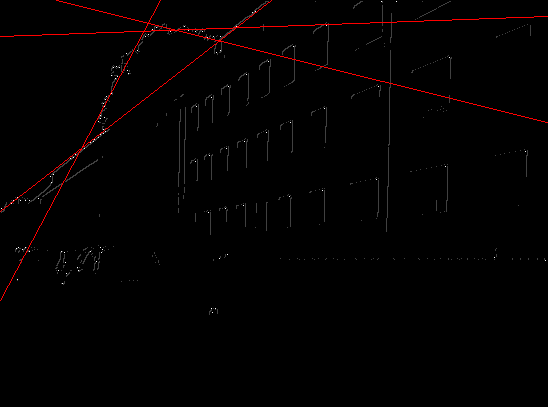
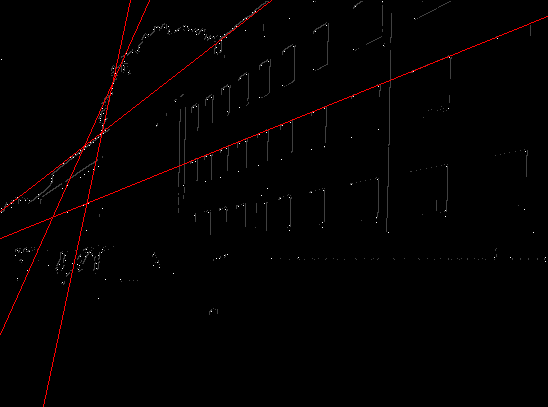
Code run test successfully Hw2 Code done + Refactoring

diff --git a/HW2S/code/HW2Code_Kunal.py b/HW2S/code/HW2Code_Kunal.py
@@ -4,6 +4,70 @@ import itertools
 import math
 import cv2
 
+
+def apply_filter(filter, arr):
+    try:
+        """
+        This method convolves an image with a given kernel.
+        Parameters
+        ----------
+        filter:array, Required
+    
+        arr: array, Required
+    
+        return tuple 
+        """
+    
+        canvas = updated_arr(arr)
+        img = updated_arr(arr)
+        for i in range(1, len(arr) - 1):
+            for j in range(1, len(arr[i]) - 1):
+                pos = 0
+                for rows in range(len(filter)):
+                    for columns in range(len(filter[rows])):
+                        x = rows - (len(filter) // 2)
+                        y = columns - (len(filter[rows]) // 2)
+                        pos += filter[rows][columns] * arr[i + x][j + y]
+                canvas[i][j] = pos
+    
+                img[i][j] = 0 if pos < 0 else  255 if pos > 255 else  pos
+        return (canvas, img)
+    except:
+        print("error in Apply_filter fn")
+
+
+def overlay_image(item1, item2, bg = False):
+    try:
+        """
+        This method used to overlays images based on gradient value.
+        Parameters
+        ----------
+        item1:array , Required
+    
+        item2:array, Required
+    
+        bg:boolean, Optional
+    
+        return tuple of item1 and image
+        """
+        img = item1.copy()
+        for i in range(len(item1)):
+            for j in range(len(item1[i])):
+                if not bg:
+                    val = math.sqrt(item1[i][j] ** 2 + item2[i][j] ** 2)
+                    item1[i][j] = val
+                    img[i][j] = 0 if val < 0 else 255 if val > 255 else  val
+                else:
+                    if item2[i][j] > item1[i][j]:
+                        item1[i][j] = item2[i][j]
+                    
+                    img[i][j] = 0 if item1[i][j] < 0 else 255 if item1[i][j] > 255 else item1[i][j]
+        return (item1, img)
+    except:
+        print("Error in overlay_image function")
+
+
+
 def non_max_supresn(arr, horizontal, vertical, mode):
     try:
         """
@@ -89,36 +153,6 @@ def threshold(canvas,min_value,max_value):
     except:
         print("Error in threshold function")
 
-def overlay_image(item1, item2, bg = False):
-    try:
-        """
-        This method used to overlays images based on gradient value.
-        Parameters
-        ----------
-        item1:array , Required
-    
-        item2:array, Required
-    
-        bg:boolean, Optional
-    
-        return tuple of item1 and image
-        """
-        img = item1.copy()
-        for i in range(len(item1)):
-            for j in range(len(item1[i])):
-                if not bg:
-                    val = math.sqrt(item1[i][j] ** 2 + item2[i][j] ** 2)
-                    item1[i][j] = val
-                    img[i][j] = 0 if val < 0 else 255 if val > 255 else  val
-                else:
-                    if item2[i][j] > item1[i][j]:
-                        item1[i][j] = item2[i][j]
-                    
-                    img[i][j] = 0 if item1[i][j] < 0 else 255 if item1[i][j] > 255 else item1[i][j]
-        return (item1, img)
-    except:
-        print("Error in overlay_image function")
-
 
 def hes_matrix(xxcord, yycord, xycord, yxcord, threshold):
     try:
@@ -176,35 +210,6 @@ def updated_arr(img):
     except:
         print("Error updated_arr in Function")
 
-def apply_filter(filter, arr):
-    try:
-        """
-        This method convolves an image with a given kernel.
-        Parameters
-        ----------
-        filter:array, Required
-    
-        arr: array, Required
-    
-        return tuple 
-        """
-    
-        canvas = updated_arr(arr)
-        img = updated_arr(arr)
-        for i in range(1, len(arr) - 1):
-            for j in range(1, len(arr[i]) - 1):
-                pos = 0
-                for rows in range(len(filter)):
-                    for columns in range(len(filter[rows])):
-                        x = rows - (len(filter) // 2)
-                        y = columns - (len(filter[rows]) // 2)
-                        pos += filter[rows][columns] * arr[i + x][j + y]
-                canvas[i][j] = pos
-    
-                img[i][j] = 0 if pos < 0 else  255 if pos > 255 else  pos
-        return (canvas, img)
-    except:
-        print("error in Apply_filter fn")
 
 def corners_to_list(corners):
     try:
@@ -410,56 +415,82 @@ def apply_hough(img, corners, angle = 180, radius = None, features = 4):
 
 if __name__ == "__main__":
 
-    gaussian = [[0.077847, 0.123317, 0.077847], 
-                [0.123317, 0.195346, 0.123317], 
-                [0.077847, 0.123317, 0.077847]]
-    horizontal_sobel = [[1, 2, 1], 
-               [0, 0, 0], 
-               [-1, -2, -1]]
-    vertical_sobel = [[1, 0, -1], 
-               [2, 0, -2], 
-               [1, 0, -1]]
+    try:
+        """Filtering variable and corrosponding values.
+        g: gaussian
+        h_sobel: Horizontal Sobel Filter values
+        v_sobel: Verticle Sobel Filter values
+        """
+        g = [[0.077847, 0.123317, 0.077847], 
+                    [0.123317, 0.195346, 0.123317], 
+                    [0.077847, 0.123317, 0.077847]]
+        h_sobel = [[1, 2, 1], 
+                [0, 0, 0], 
+                [-1, -2, -1]]
+        v_sobel = [[1, 0, -1], 
+                [2, 0, -2], 
+                [1, 0, -1]]
+        
+        img = cv2.imread("road.png", 0)
+        arr = updated_arr(img)
     
-    img = cv2.imread("road.png", 0)
-    arr = updated_arr(img)
+        gfilImg = apply_filter(g, arr)
+        h = apply_filter(h_sobel, gfilImg[0])  
+        v = apply_filter(v_sobel, gfilImg[0])
 
-    blurred = apply_filter(gaussian, arr)
-    cv2.imwrite("gaussian_filter_image.png", blurred[1])
-
-    h = apply_filter(horizontal_sobel, blurred[0])
-    cv2.imwrite("sobel_filter_horizontal.png", h[1])
-    v = apply_filter(vertical_sobel, blurred[0])
-    cv2.imwrite("sobel_filter_vertical.png", v[1])
-
-    edges = overlay_image(h[0], v[0])
-    cv2.imwrite("edges_with_no_supression.png", edges[1])
-    suppressed_edges = non_max_supresn(edges[0], h[0], v[0], "edges")
-    cv2.imwrite("edges_with_supression.png", suppressed_edges[1])
-    threshold_edges = threshold(suppressed_edges[0], 175, 60)
-    cv2.imwrite("edges_threshold.png", threshold_edges)
-
-    xxcord = apply_filter(horizontal_sobel, h[0])
-    yycord = apply_filter(vertical_sobel, v[0])
-    xycord = apply_filter(vertical_sobel, h[0])
-    yxcord = apply_filter(horizontal_sobel, v[0])
-
-
-    cv2.imwrite("xxcord.png", xxcord[1])
-    cv2.imwrite("yycord.png", yycord[1])
-    cv2.imwrite("xycord.png", xycord[1])
-    cv2.imwrite("yxcord.png", yxcord[1])
-    
-    hess = hes_matrix(xxcord[0], yycord[0], xycord[0], yxcord[0], 175000)
-    hess_threshold = non_max_supresn(hess[0], h[0], v[0], "corners")
-    cv2.imwrite("corners.png", hess[1])
-    cv2.imwrite("corners_threshold.png", hess_threshold[1])
-    updated_hess = overlay_image(hess_threshold[0], threshold_edges / 4, bg=True) 
-    cv2.imwrite("updated_corners.png", updated_hess[1])
-    colored = (updated_hess[1]).copy()
-    colored = cv2.cvtColor(updated_hess[1], cv2.COLOR_GRAY2RGB)
-    ransac_image = colored.copy()
-    ransac_image = apply_ransac(ransac_image, corners_to_list(hess_threshold[1]), it = 25)
-    cv2.imwrite("ransac.png", ransac_image)
-    HOUGH = colored.copy()
-    HOUGH = apply_hough(HOUGH, corners_to_list(hess_threshold[1]), angle=45)
-    cv2.imwrite("hough_image.png", HOUGH)
+        
+        """Apply flter for Horizontal and Vertical sobel
+        cord1_xx: for XX cordinates
+        cord1_yy: for YY cordinates
+        cord1_xy: for XY cordinates
+        cord1_yx: for YX cordinates
+        """
+        cord1_xx = apply_filter(h_sobel, h[0])
+        cord1_yy = apply_filter(v_sobel, v[0])
+        cord1_xy = apply_filter(v_sobel, h[0])
+        cord1_yx = apply_filter(h_sobel, v[0])
+        
+        edges = overlay_image(h[0], v[0])
+        suppress_edges = non_max_supresn(edges[0], h[0], v[0], "edges")
+        threshold_edges = threshold(suppress_edges[0], 175, 60)
+   
+        hess_matrix = hes_matrix(cord1_xx[0], cord1_yy[0], cord1_xy[0], cord1_yx[0], 175000)
+        hess_threshold = non_max_supresn(hess_matrix[0], h[0], v[0], "corners")
+        updated_hess_matrix = overlay_image(hess_threshold[0], threshold_edges / 4, bg=True) 
+        
+        colored = (updated_hess_matrix[1]).copy()
+        colored = cv2.cvtColor(updated_hess_matrix[1], cv2.COLOR_GRAY2RGB)
+        
+        """
+        Applying RANSAC 
+        """
+        ransac_image = colored.copy()
+        ransac_image = apply_ransac(ransac_image, corners_to_list(hess_threshold[1]), it = 25)
+        
+        """
+        Hough Transformation with the hess_threshold values
+        """
+        Hough_transform  = colored.copy()
+        Hough_transform  = apply_hough(Hough_transform, corners_to_list(hess_threshold[1]), angle=45)
+        
+        
+        """
+        Saving all output images
+        """
+        cv2.imwrite("gaussian_filter.png", gfilImg[1])
+        cv2.imwrite("h_sobel_filter.png", h[1])
+        cv2.imwrite("v_sobel_filter.png", v[1])
+        cv2.imwrite("cord1.png", cord1_xx[1])
+        cv2.imwrite("cord2.png", cord1_yy[1])
+        cv2.imwrite("cord3.png", cord1_xy[1])
+        cv2.imwrite("cord4.png", cord1_yx[1])
+        cv2.imwrite("edges_with_no_supress.png", edges[1])
+        cv2.imwrite("edges_with_supress.png", suppress_edges[1])
+        cv2.imwrite("edges_threshold.png", threshold_edges)
+        cv2.imwrite("corners.png", hess_matrix[1])
+        cv2.imwrite("corners_threshold.png", hess_threshold[1])
+        cv2.imwrite("updated_corners.png", updated_hess_matrix[1])
+        cv2.imwrite("ransac.png", ransac_image)
+        cv2.imwrite("hough_image.png", Hough_transform)
+    except:
+        print("Error n main Fn")
